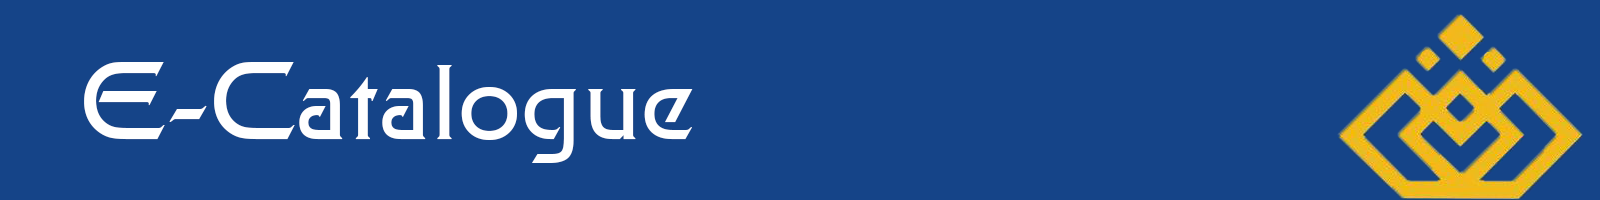
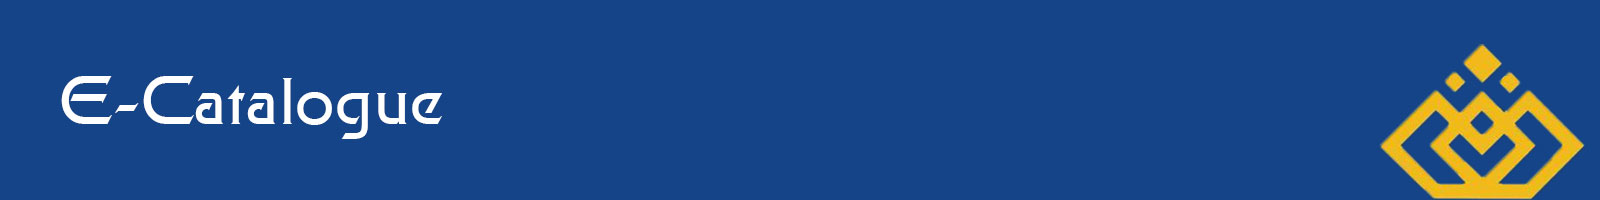
hero images updated

Changed region(s): [[0.0312, 0.3, 0.4375, 0.81], [0.8125, 0.06, 1.0, 1.0]]

diff --git a/productDetailsStyle.css b/productDetailsStyle.css
@@ -1909,7 +1909,7 @@
     text-decoration: none;
   }
   .secondary_menu {
-    min-height: 58px;
+    min-height: 70px;
     background-color: #ffffff;
   }
   .secondary_menu .container {
@@ -3011,7 +3011,6 @@
     }
   }
 }
-/*! CSS Used from: https://www.nitco.in/css/custom.css?v=Dc0L87P-dA7zsV1v8_djSV3Qg4J2VUgIAkjW9EwjhiY ; media=all */
 @media all {
   .dropdown:hover > .dropdown-menu {
     display: block;
@@ -3032,7 +3031,6 @@
     }
   }
 }
-/*! CSS Used from: https://www.nitco.in/css/formsmain.min.css?v=UaacOgqczVU2num9ylsZqpPy92vYHDollVvbzucYuuM ; media=all */
 @media all {
   .gform_wrapper textarea {
     font-family: inherit;
@@ -3157,7 +3155,6 @@
     }
   }
 }
-/*! CSS Used from: https://www.nitco.in/css/browsers.min.css?v=clx3OelYPln0TpWQ-xMP0Z_D-dIguH7ABOJHqhjIUZM ; media=all */
 @media all {
   .gform_wrapper.gf_browser_chrome ul li:after,
   .gform_wrapper.gf_browser_chrome ul li:before {
@@ -3217,31 +3214,6 @@
   }
 }
 /*! CSS Used fontfaces */
-@font-face {
-  font-family: "FontAwesome";
-  src: url("https://www.nitco.in/fonts/fontawesome-webfont.eot?v=4.7.0");
-  src: url("https://www.nitco.in/fonts/fontawesome-webfont.eot#iefix&v=4.7.0")
-      format("embedded-opentype"),
-    url("https://www.nitco.in/fonts/fontawesome-webfont.woff?v=4.7.0")
-      format("woff"),
-    url("https://www.nitco.in/fonts/fontawesome-webfont.ttf?v=4.7.0")
-      format("truetype"),
-    url("https://www.nitco.in/fonts/fontawesome-webfont.svg?v=4.7.0#fontawesomeregular")
-      format("svg");
-  font-weight: normal;
-  font-style: normal;
-}
-@font-face {
-  font-family: "icomoon";
-  src: url("https://www.nitco.in/fonts/icomoon.eot");
-  src: url("https://www.nitco.in/fonts/icomoon.eot") format("embedded-opentype"),
-    url("https://www.nitco.in/fonts/icomoon.ttf") format("truetype"),
-    url("https://www.nitco.in/fonts/icomoon.woff") format("woff"),
-    url("https://www.nitco.in/fonts/icomoon.svg") format("svg");
-  font-weight: normal;
-  font-style: normal;
-  font-display: swap;
-}
 @font-face {
   font-family: "Open Sans";
   font-style: normal;

diff --git a/productStyle.css b/productStyle.css
@@ -528,12 +528,10 @@
       display: none !important;
     }
   }
-} */
-/*! CSS Used from: https://www.nitco.in/nitcocoremvc.styles.css?v=UdLCk4oOIvGdi8IoEqBhCDCoYXkmZaJ_scsAeBhJK8M */
+}
 .dropdown:hover > .dropdown-menu[b-zd64vl5hru] {
   display: block;
 }
-/*! CSS Used from: https://www.nitco.in/css/bootstrap.min.css?v=x2HBsxzZa2dhtxDLNVVIsGVf8FWeiX7HoG-5LcODgPk ; media=all */
 @media all {
   html {
     font-family: sans-serif;
@@ -1066,7 +1064,6 @@
     }
   }
 }
-/*! CSS Used from: https://www.nitco.in/css/swiper.min.css?v=BfJ2_2ECVilqwy_4WgCCQC92XJ4mQmFEaOE-m2QCVAg ; media=all */
 @media all {
   .swiper-container {
     margin: 0 auto;
@@ -1111,7 +1108,6 @@
     transition-property: transform, -webkit-transform;
   }
 }
-/*! CSS Used from: https://www.nitco.in/css/font-awesome.min.css?v=clpZxhVQREKe8fwc7y9k2g5HV0eZ7-Rh962oMWTS4a4 ; media=all */
 @media all {
   .fa {
     display: inline-block;
@@ -1161,7 +1157,6 @@
     content: "\f2bd";
   }
 }
-/*! CSS Used from: https://www.nitco.in/css/style.css?v=IqZQoIPsg29pgEWbDri0e5d71iyVSsCnF0SapjDI5T4 ; media=all */
 @media all {
   html {
     font-family: sans-serif;
@@ -1451,7 +1446,7 @@
     text-decoration: none;
   }
   .secondary_menu {
-    min-height: 58px;
+    min-height: 70px;
     background-color: #ffffff;
   }
   .secondary_menu .container {
@@ -2321,7 +2316,6 @@
     text-decoration: underline;
   }
 }
-/*! CSS Used from: https://www.nitco.in/css/custom.css?v=Dc0L87P-dA7zsV1v8_djSV3Qg4J2VUgIAkjW9EwjhiY ; media=all */
 @media all {
   .filterdropdown {
     display: block;

diff --git a/tiles-collection.html b/tiles-collection.html
@@ -33,7 +33,7 @@
     </div>
                     
     <div  class="secondary_menu">
-        <div  class="container container-nt">
+      <div  class="container container-nt" style="margin-top: 4px;">
             <div  class="row header-menu">
                 <div  class="logo columns">
                     <div  class="logo_img"> <a class="linkColorChange" href="index.html"><img src="zebboi_logo_1.png" alt="Zebboi"></a> </div>
@@ -61,9 +61,7 @@
         </div>
     </div>
 
-<div class="resources-header" style="background-image:url(https://www.nitco.in/nitcoassets/banners/catalogue.jpg)">
-  <h1>Tiles Collection</h1>
-</div>
+<img class="resources-header" src="tiles-collection-hero.png"/>
 
 <div class="bodyValue">
     <section class=" fadeIn pb-4">

diff --git a/style.css b/style.css
@@ -1220,7 +1220,7 @@
     text-decoration: none;
   }
   .secondary_menu {
-    min-height: 58px;
+    min-height: 70px;
     background-color: #ffffff;
   }
   .secondary_menu .container {
@@ -2689,6 +2689,17 @@
     display: flex;
     align-items: center; /*justify-content: center;*/
     background-size: cover;
+  }
+  @media screen and (max-width: 767px) {
+    .resources-header {
+      width: 100%;
+      height: 80px;
+      background-repeat: no-repeat;
+      background-position: center center;
+      display: flex;
+      align-items: center; /*justify-content: center;*/
+      background-size: cover;
+    }
   }
   .resources-header h1 {
     margin: 0;

diff --git a/newproductspage.html b/newproductspage.html
@@ -46,7 +46,7 @@
   </head>
   <body>
     <div class="primary-navbar">
-      <div class="container container-nt">
+      <div class="container container-nt" style="margin-top: 4px;">
         <!-- <div  class="row">
               <div  class="col-md-2">
                   <ul  class="top-menu-left">
@@ -91,7 +91,7 @@
       </div>
     </div>
 
-    <div class="secondary_menu">
+    <div class="secondary_menu" style="margin-top: 4px;">
       <div class="container container-nt">
         <div class="row header-menu">
           <div class="logo columns">

diff --git a/index.html b/index.html
@@ -31,8 +31,8 @@
             </div>
         </div>
                     
-    <div  class="secondary_menu">
-        <div  class="container container-nt">
+        <div  class="secondary_menu">
+          <div  class="container container-nt" style="margin-top: 4px;">
             <div  class="row header-menu">
                 <div  class="logo columns">
                     <div  class="logo_img"> <a class="linkColorChange" href="index.html"><img src="zebboi_logo_1.png" alt="Zebboi"></a> </div>

diff --git a/product.html b/product.html
@@ -31,7 +31,7 @@
         </div>
                     
     <div  class="secondary_menu">
-        <div  class="container container-nt">
+        <div  class="container container-nt" style="margin-top: 4px;">
             <div  class="row header-menu">
                 <div  class="logo columns">
                     <div  class="logo_img"> <a href="index.html"><img src="zebboi_logo_1.png" alt="Zebboi"></a> </div>

diff --git a/aboutus.html b/aboutus.html
@@ -32,7 +32,7 @@
     </div>
                     
     <div  class="secondary_menu">
-        <div  class="container container-nt">
+        <div  class="container container-nt" style="margin-top: 4px;">
             <div  class="row header-menu">
                 <div  class="logo columns">
                     <div  class="logo_img"> <a href="index.html"><img src="zebboi_logo_1.png" alt="Zebboi"></a> </div>

diff --git a/catalogue.html b/catalogue.html
@@ -32,7 +32,7 @@
     </div>
                     
     <div  class="secondary_menu">
-        <div  class="container container-nt">
+        <div  class="container container-nt" style="margin-top: 4px;">
             <div  class="row header-menu">
                 <div  class="logo columns">
                     <div  class="logo_img"> <a href="index.html"><img src="zebboi_logo_1.png" alt="Zebboi"></a> </div>

diff --git a/contactus.html b/contactus.html
@@ -27,7 +27,7 @@
     </div>
                     
     <div  class="secondary_menu">
-        <div  class="container container-nt">
+        <div  class="container container-nt" style="margin-top: 4px;">
             <div  class="row header-menu">
                 <div  class="logo columns">
                     <div  class="logo_img"> <a href="index.html"><img src="zebboi_logo_1.png" alt="Zebboi"></a> </div>
